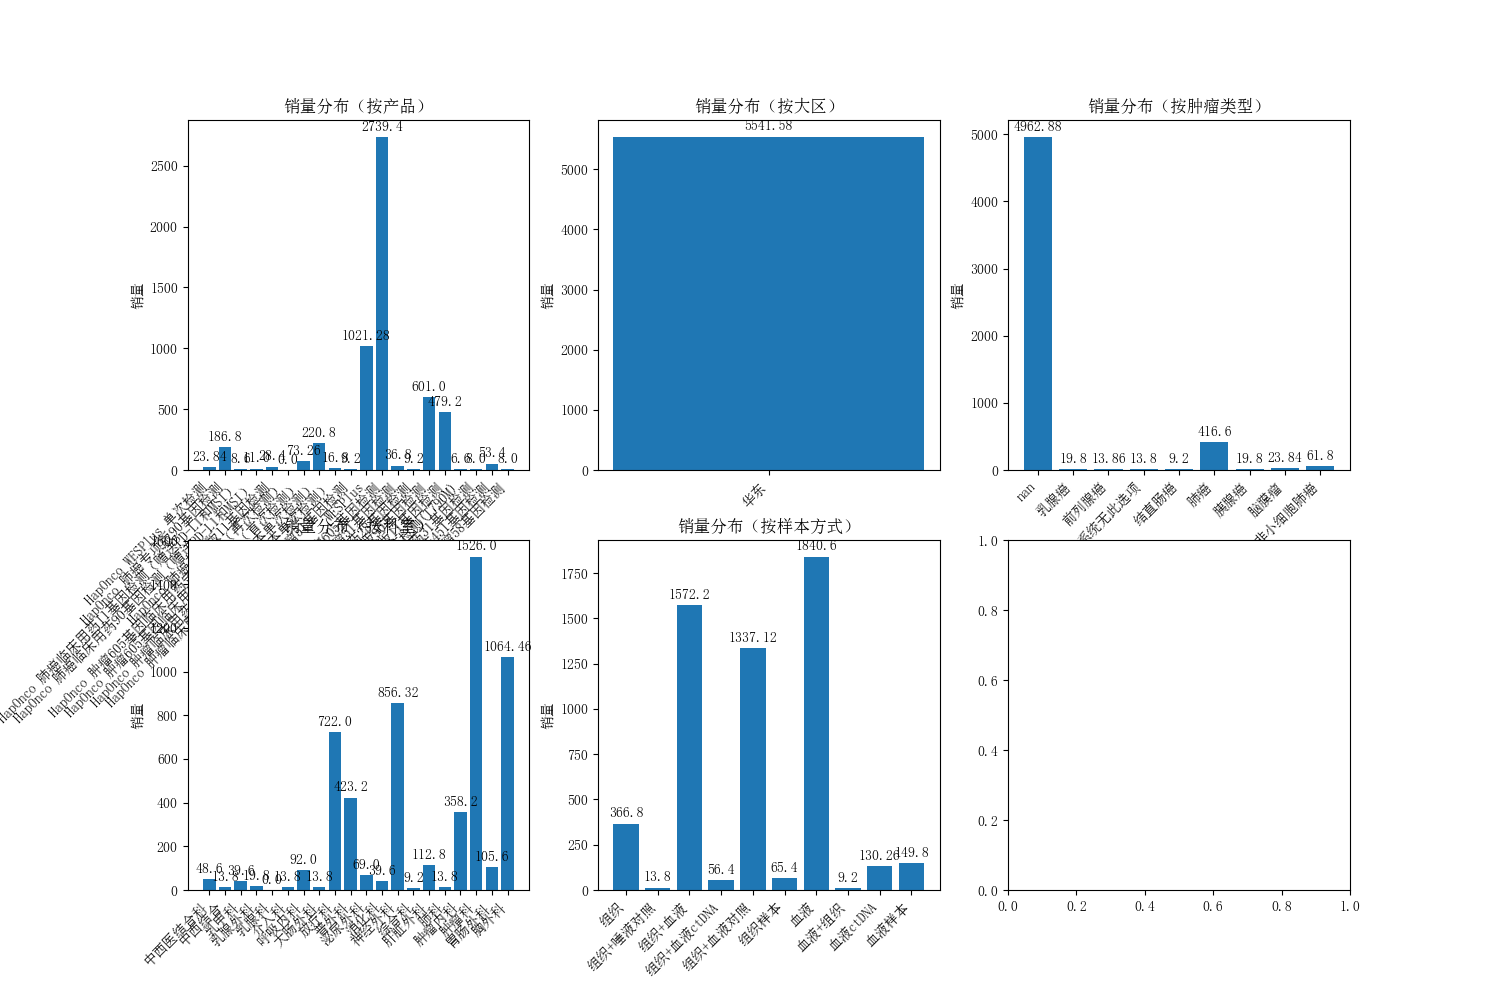
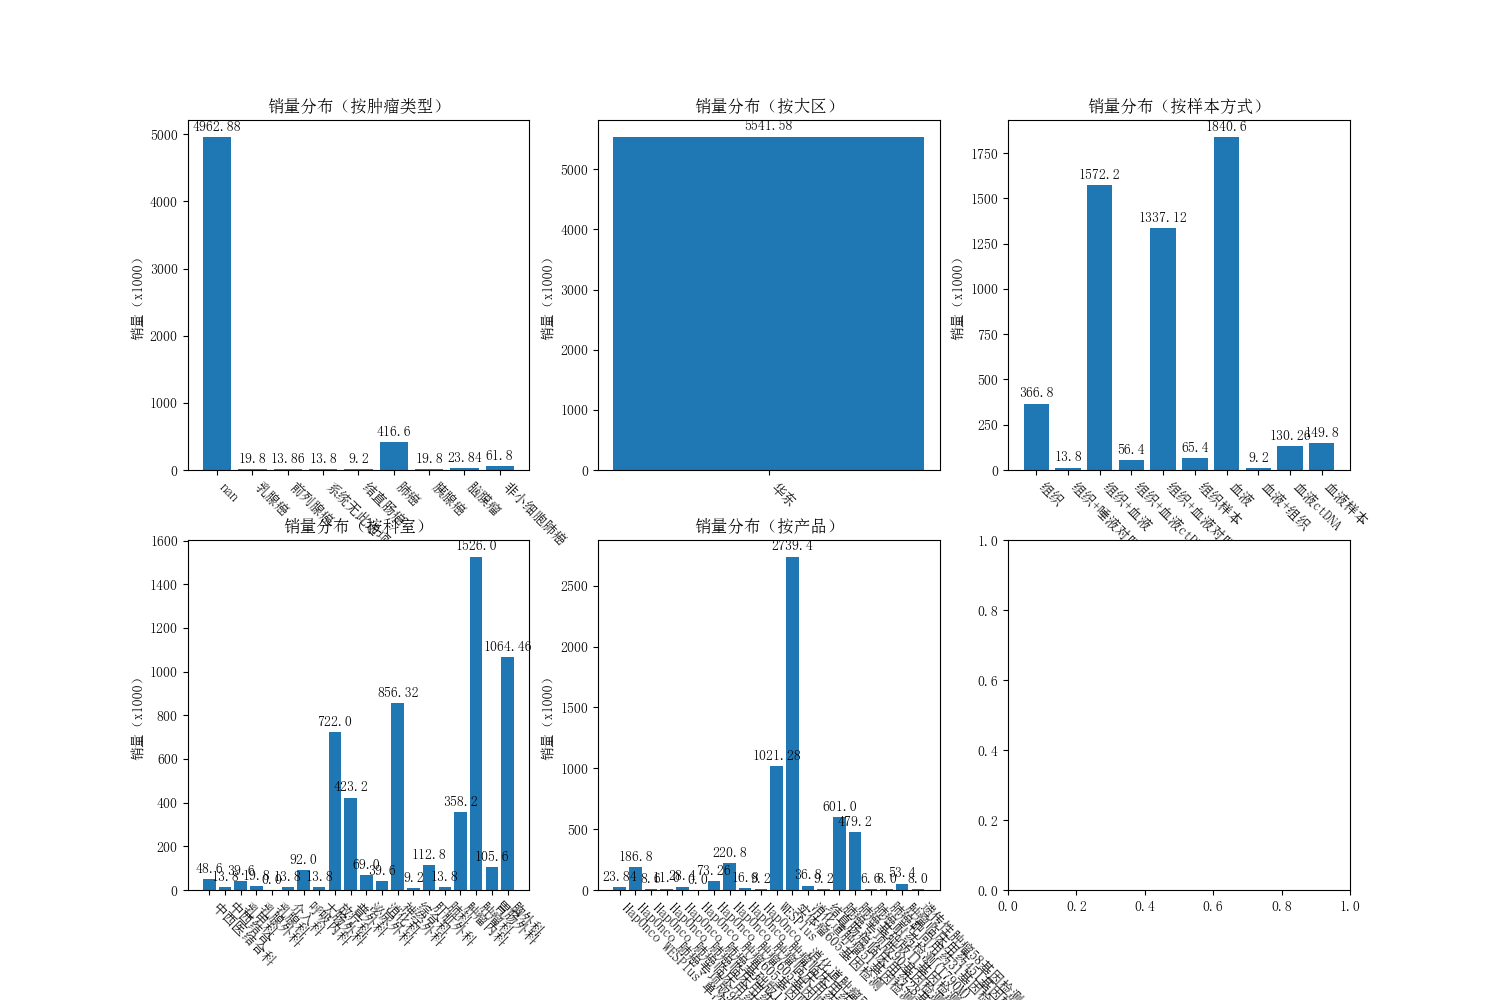
y label

diff --git a/apps/utils/data_process.py b/apps/utils/data_process.py
@@ -45,9 +45,10 @@ class DataProcessor:
 
 
 class Graph:
-    def __init__(self, nrows=1, ncols=1, savefig_path=None):
+    def __init__(self, nrows=1, ncols=1, savefig_path=None, title=None):
         self.fig, self.ax_list = plt.subplots(nrows=nrows, ncols=ncols, figsize=(ncols*5, nrows*5))
         self.savefig_path = savefig_path
+        self.title = title
 
     def callback(self, graph_type, *args):
         method = getattr(self, graph_type, None)
@@ -63,7 +64,12 @@ class Graph:
         y = df.iloc[:, 0].values.tolist()
         rects = ax.bar(x, y)
         ax.set_xticks(x)
-        ax.set_xticklabels(x_label, rotation=45, ha='right')
+        ax.set_xticklabels(x_label, rotation=-45, ha='left')
+        if fold:
+            ylabel = "销量（x{}）".format(str(fold))
+        else:
+            ylabel = "销量"
+        ax.set_ylabel(ylabel)
         title = "销量分布（按{}）".format(category[df.index.name])
         ax.set_title(title)
         self.autolabel(ax, rects)
@@ -93,7 +99,7 @@ class Chandler:
     def index_graph(self, category):
         ncols = 3
         nrows = int(np.ceil(len(category)/ncols))
-        graph = Graph(nrows=nrows, ncols=ncols, savefig_path="/home/murphy/sale/static/images/stat.png")
+        graph = Graph(nrows=nrows, ncols=ncols, savefig_path="/home/murphy/sale/static/images/stat.png", title="test")
         data_processor = DataProcessor(dataframe=self.dataframe)
         df_list = [data_processor.one_dimension(index=i, value='price', aggfunc=np.sum) for i in category]
         for i in range(len(df_list), ncols*nrows):
